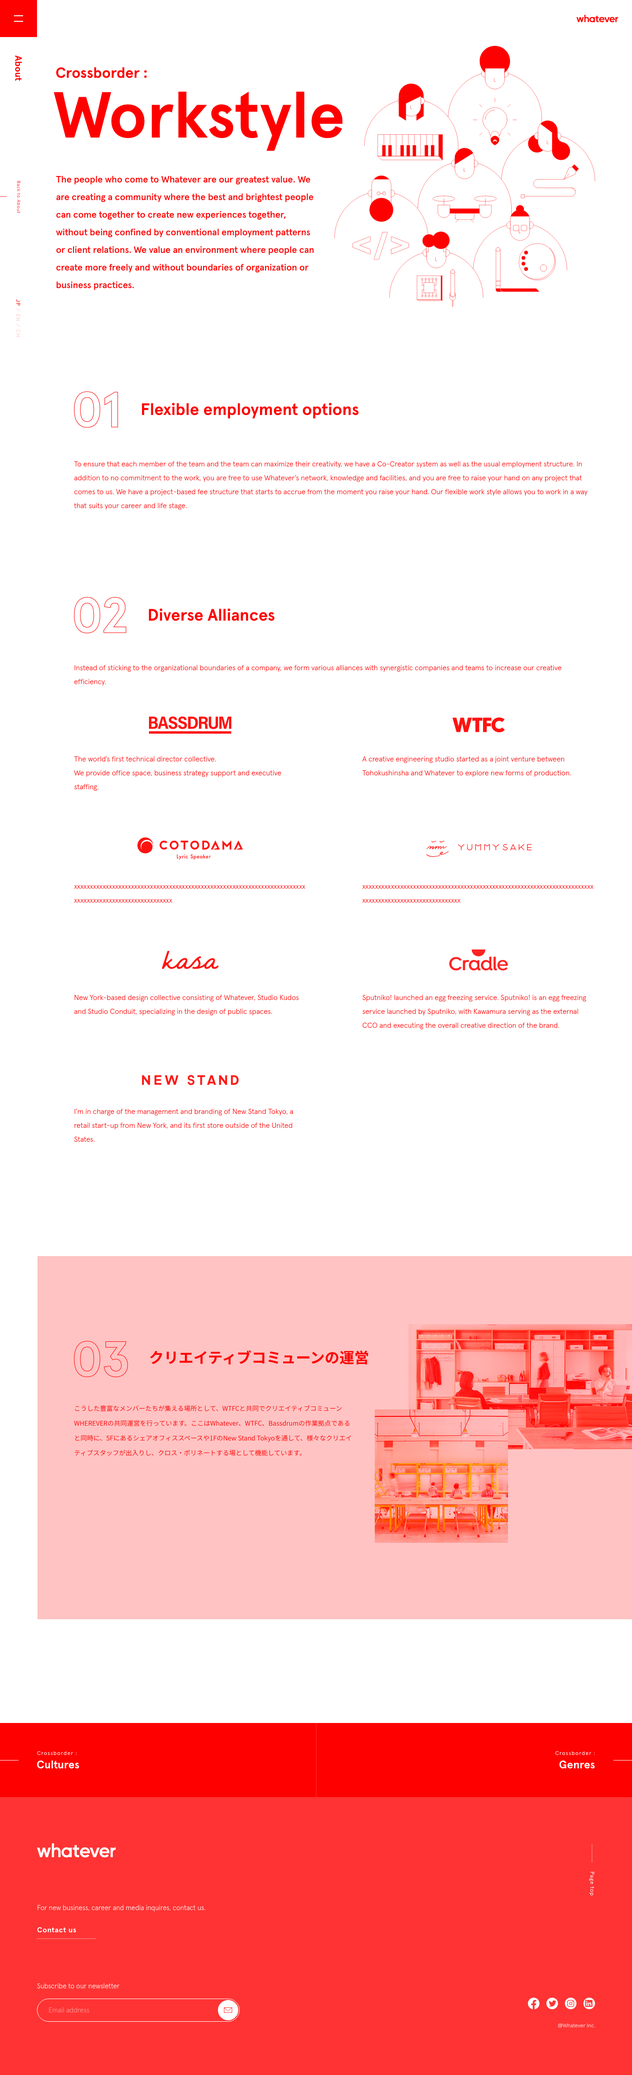
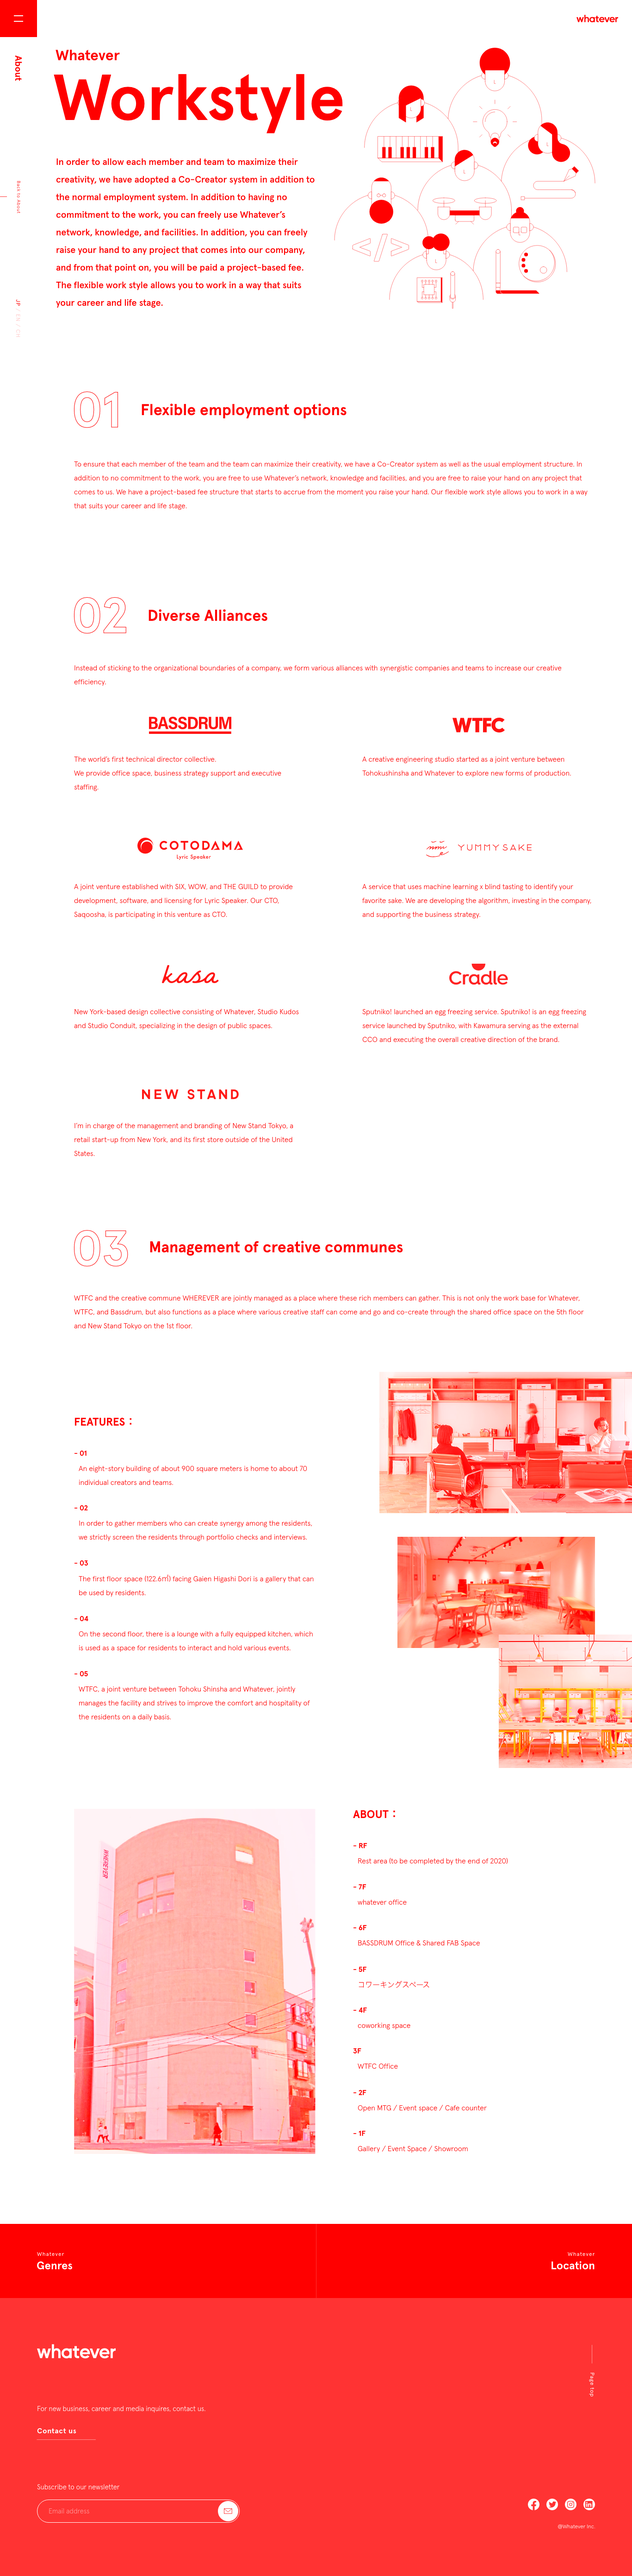
Workstyle

diff --git a/pages/about/workstyle.tsx b/pages/about/workstyle.tsx
@@ -12,16 +12,19 @@ const Section1 = () => (
       vwpx(px)
         'calc((100vw - 80px) * %s)' % (px / (1366 - 80))
       .section1
-        margin-top vwpx(120)
+        margin-top vwpx(85)
         margin-left vwpx(80)
       .t
         margin-top vwpx(43)
         margin-right vwpx(80)
         font-size 1.5rem
         line-height 3.0rem
-      .en .t
-        margin-top vwpx(41)
-        font-size 1.6rem
+      .en
+        &.section1
+          margin-top vwpx(110)
+        .t
+          margin-top vwpx(41)
+          font-size 1.6rem
     `}</style>
   </div>
 )
@@ -133,39 +136,167 @@ const Section2 = () => (
   </div >
 )
 
-const Section3 = () => (
-  <div className="container">
-    <SectionTitle num="03" nx={-5} title="Management of the<br/>Creative Commune" tx={{ ja: -16 }} />
-    <div className="t">As a place for these rich members to meet, we are jointly managing the creative commune WHEREVER with WTFC. In addition to serving as a base for Whatever, WTFC and Bassdrum, WHEREVER also functions as a place for cross-pollination of various creative staff through the shared office space on the 5th floor and New Stand Tokyo on the 1st floor.</div>
+const Features = () => (
+  <div className={langStyle('features')}>
+    <h2>FEATURES：</h2>
+    <div className="images">
+      <img src="/about/workstyle/image@2x.jpg" alt="" className="i1" />
+      <img src="/about/workstyle/Image 3@2x.jpg" alt="" className="i2" />
+      <img src="/about/workstyle/image-1@2x.jpg" alt="" className="i3" />
+    </div>
+    <div className="items">
+      {t('workstyle_3_features')?.split('\n\n').map(item => {
+        const [n, desc] = item.split('\n')
+        return (<div>
+          <div className="name">- {n}</div>
+          <div className="desc">{desc}</div>
+        </div>)
+      })}
+    </div>
     <style jsx>{`
-      .container
+      vwpx(px)
+        'calc((100vw - 80px) * %s)' % (px / (1366 - 80))
+      .features
         position relative
-        margin-top 117px
-        margin-left 80px
-        margin-bottom 295px
-        >img
-          position absolute
-      .t
-        font-size 1.6rem
+        margin-top vwpx(161)
+        min-height vwpx(750)
+      .images img
+        position absolute
+        &.i1
+          width vwpx(546)
+          top vwpx(-106)
+          right 0
+        &.i2
+          width vwpx(427)
+          top vwpx(250)
+          right vwpx(80)
+        &.i3
+          width vwpx(288)
+          top vwpx(461)
+          right 0
+      h2
+        margin 0
+        font-size vwpx(24)
+      .items
+        margin-top vwpx(46)
+        width vwpx(525)
+      .name
+        font-size 1.5rem
+        font-weight bold
+      .desc
+        margin-top 1.1rem
+        margin-bottom 3.3rem
+        margin-left 1.0rem
         line-height 3.0rem
-        margin-top 31px
-        margin-right 80px
+      .en
+        &.features
+          margin-top vwpx(172)
+        .items
+          margin-top vwpx(45)
+        .name
+          font-size 1.6rem
+        .desc
+          font-size 1.6rem
+          margin-top 1.0rem
     `}</style>
   </div>
 )
 
-const Profession = () => (
-  <Layout title="About" side="About" backto="/about" footer={<Footer left="Cultures" right="Genres" />}>
-    <Header title="Workstyle" subtitle={t('workstyle_title')!} desc={t('workstyle_description')!} image="/about/workstyle/head@2x.png" ty={{ ja: 1 }} iy={{ ja: -22, en: -44 }} />
+const About = () => (
+  <div className={langStyle('about')}>
+    <div className="images">
+      <img src="/about/workstyle/image 4@2x.jpg" alt="" />
+    </div>
+    <div className="text">
+      <h2>ABOUT：</h2>
+      <div className="items">
+        {t('workstyle_3_about')?.split('\n\n').map(item => {
+          const [n, desc] = item.split('\n')
+          return (<div>
+            <div className="name">- {n}</div>
+            <div className="desc">{desc}</div>
+          </div>)
+        })}
+      </div>
+    </div>
+    <style jsx>{`
+      vwpx(px)
+        'calc((100vw - 80px) * %s)' % (px / (1366 - 80))
+      .about
+        margin-top vwpx(105)
+        display flex
+      .images img
+        width vwpx(523)
+      .text
+        margin-left vwpx(80)
+        margin-top vwpx(-8)
+      h2
+        margin 0
+        font-size vwpx(24)
+      .items
+        margin-top vwpx(46)
+        width vwpx(525)
+      .name
+        font-size 1.5rem
+        font-weight bold
+      .desc
+        margin-top 1.1rem
+        margin-bottom 3.3rem
+        margin-left 1.0rem
+        line-height 3.0rem
+      .en
+        .items
+          margin-top vwpx(45)
+        .name
+          font-size 1.6rem
+        .desc
+          font-size 1.6rem
+          margin-top 1.0rem
+    `}</style>
+  </div>
+)
+
+const Section3 = () => (
+  <div className={langStyle('section3')}>
+    <SectionTitle num="03" nx={-5} title={t('workstyle_3_title')!} tx={{ ja: -3, en: -3 }} ty={{ ja: 24, en: 24 }} />
+    <div className="t">{t('workstyle_3_body')}</div>
+    <Features />
+    <About />
+    <style jsx>{`
+      vwpx(px)
+        'calc((100vw - 80px) * %s)' % (px / (1366 - 80))
+      .section3
+        position relative
+        margin-top vwpx(117)
+        margin-left vwpx(80)
+        margin-bottom vwpx(110)
+        >img
+          position absolute
+      .t
+        font-size 1.5rem
+        line-height 3.0rem
+        margin-top vwpx(33)
+        margin-right vwpx(80)
+      .en
+        &.section3
+          margin-top vwpx(87)
+        .t
+          font-size 1.6rem
+          margin-top vwpx(32)
+    `}</style>
+  </div>
+)
+
+const Workstyle = () => (
+  <Layout title="About" side="About" backto="/about" footer={<Footer left="Genres" right="Location" />}>
+    <Header title="Workstyle" subtitle={t('workstyle_title')!} desc={t('workstyle_description')!} image="/about/pict02.svg" ty={{ ja: -19, en: -19 }} iy={{ en: -21 }} />
     <Section1 />
     <Section2 />
     <Section3 />
-    <style jsx>{`
-    `}</style>
   </Layout>
 )
 
-export default Profession
+export default Workstyle
 
 export const getStaticProps: GetStaticProps = async () => {
   return { props: {} }

diff --git a/components/About.tsx b/components/About.tsx
@@ -80,15 +80,15 @@ export const Footer = ({ left, right }: { left: string, right: string }) => (
       <a style={{ borderRight: '1px solid #333' }}>
         <div className="line"></div>
         <div style={{ marginLeft: 40 }}>
-          <div className="cb">Crossborder :</div>
+          <div className="whatever">Whatever</div>
           <div className="title">{left}</div>
         </div>
       </a>
     </Link>
     <Link href={`/about/${right.toLowerCase()}`}>
       <a style={{ justifyContent: 'flex-end' }}>
-        <div style={{ marginRight: 40 }}>
-          <div className="cb">Crossborder :</div>
+        <div style={{ marginRight: 40, textAlign: 'right' }}>
+          <div className="whatever">Whatever</div>
           <div className="title">{right}</div>
         </div>
         <div className="line"></div>
@@ -110,15 +110,15 @@ export const Footer = ({ left, right }: { left: string, right: string }) => (
         .line
           border-top 1px solid #fff
           width 40px
-        .cb
+        .whatever
           font-size 1.2rem
           font-weight normal
           letter-spacing 0.1em
-          margin-top 2px
+          margin-top 9px
         .title
           font-size 2.4rem
           font-weight bold
-          margin-top 8px
+          margin-top 7px
     `}</style>
   </div>
 )

diff --git a/pages/about.tsx b/pages/about.tsx
@@ -13,7 +13,7 @@ const Detail = ({ title }: { title: string }) => {
       <Grad><h1>{title}</h1></Grad>
       {subtitle != '-' ? <Grad><h2>{subtitle}</h2></Grad> : null}
       <Grad><p dangerouslySetInnerHTML={{ __html: t(`about_${key}_description`)?.replace('\n', '<br />') || '' }}></p></Grad>
-      <div className="more"><Grad><Link href="/about/genres"><a>Learn more</a></Link></Grad></div>
+      <div className="more"><Grad><Link href={`/about/${key}`}><a>Learn more</a></Link></Grad></div>
       <style jsx>{`
         vwpx(px)
           'calc((100vw - 80px) * %s)' % (px / (1366 - 80))

diff --git a/components/Layout.tsx b/components/Layout.tsx
@@ -6,7 +6,7 @@ import Sidebar from 'components/Sidebar'
 import Header from 'components/Header'
 import Footer from 'components/Footer'
 
-const useTemplate = 0
+const useTemplate = 1
 
 type Props = {
   showHeader?: boolean
@@ -21,6 +21,7 @@ const Layout = ({ children, footer, title = '', side = '', backto = '', showHead
   const templateStyle: { [prop: string]: string } = {}
   if (useTemplate) {
     templateStyle.backgroundImage = `url(/_/About_detail_01_${useRouter().locale!}.png)`
+    // templateStyle.backgroundPosition = 'top 11px left'
   }
   return (
     <div>

diff --git a/pages/about/genres.tsx b/pages/about/genres.tsx
@@ -424,7 +424,7 @@ const Section3 = () => (
 )
 
 const GenrePage = () => (
-  <Layout title="About" side="About" backto="/about" footer={<Footer left="Workstyle" right="Cultures" />}>
+  <Layout title="About" side="About" backto="/about" footer={<Footer left="Location" right="Workstyle" />}>
     <div className="container">
       <Header title="Genres" subtitle={t('genres_title')!} desc={t('genres_description')!} image="/about/pict01.svg" iy={{ en: -21 }} />
       <Section1 />
